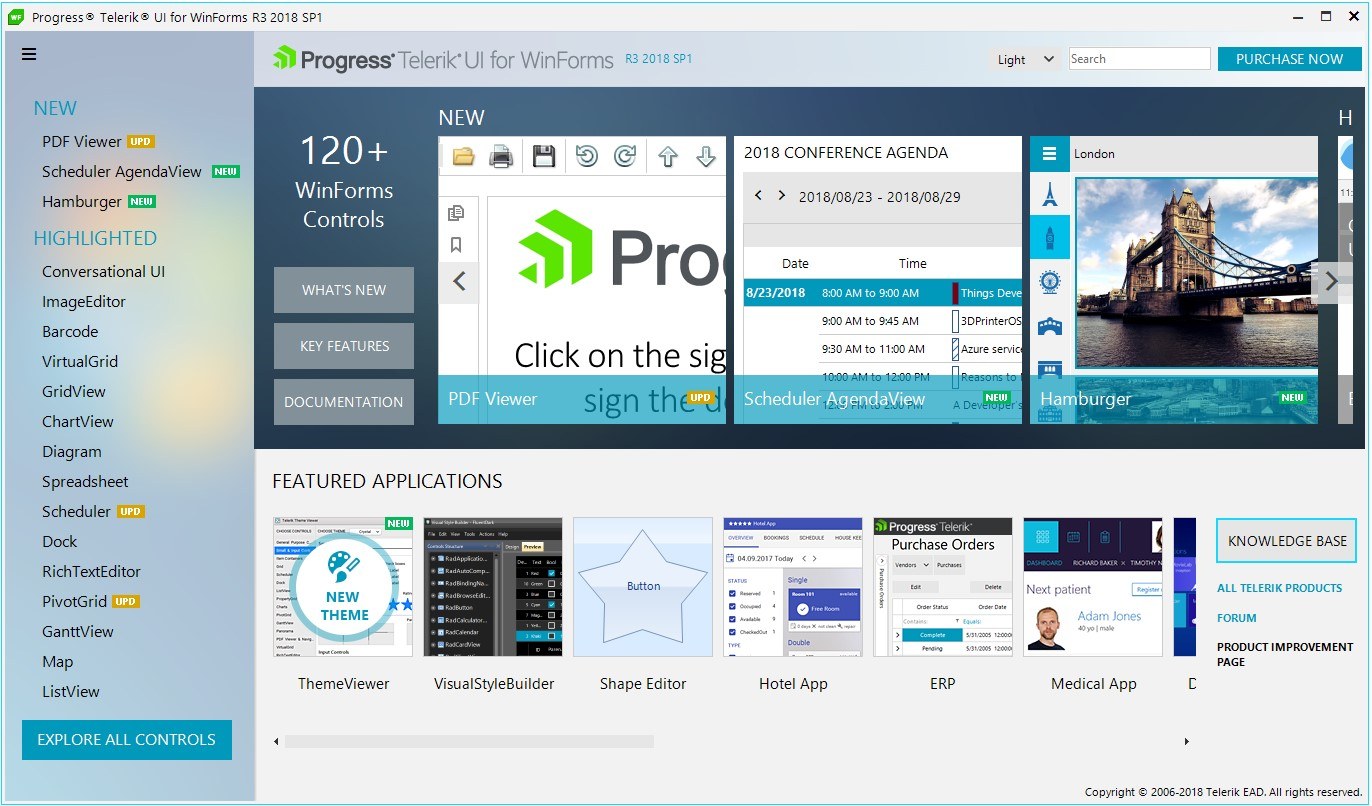
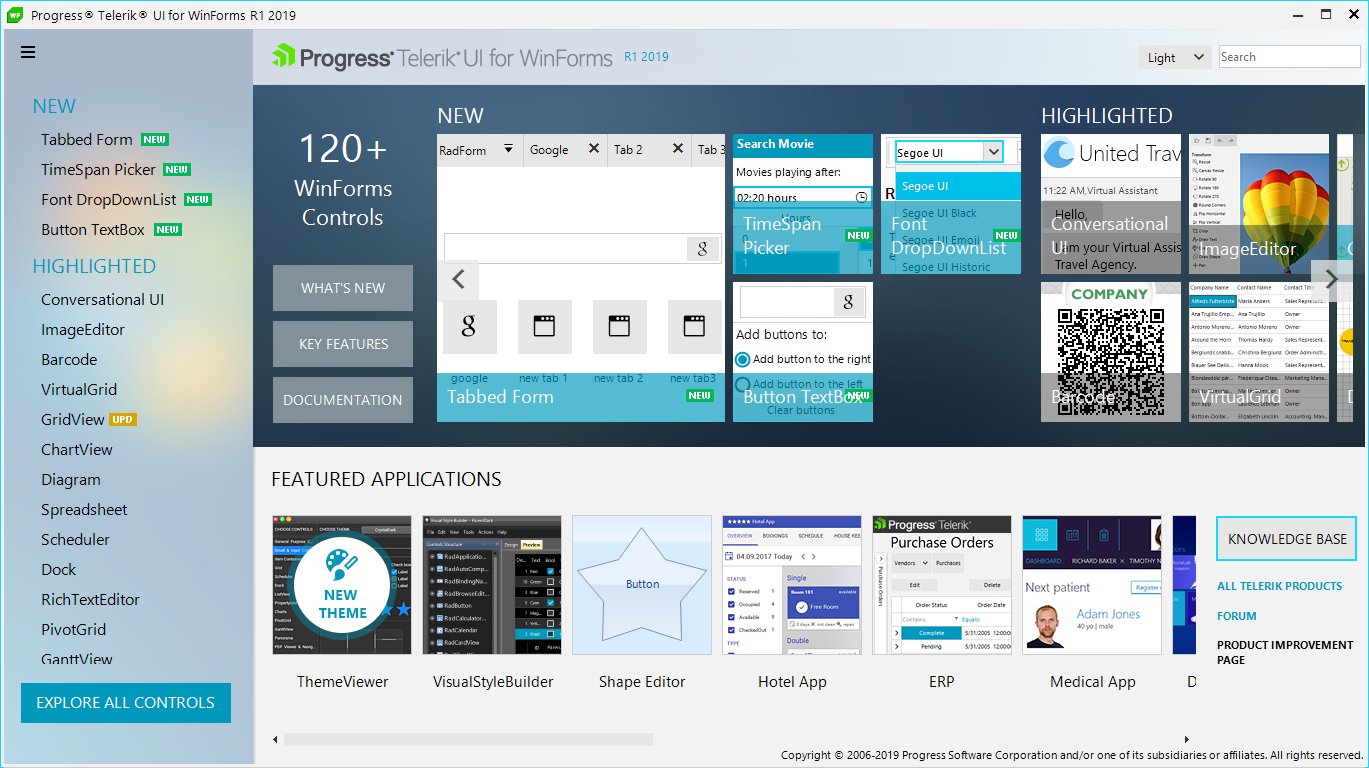
Updated the overview image and new controls

diff --git a/deployment-and-distribution/application-deployment.md b/deployment-and-distribution/application-deployment.md
@@ -99,6 +99,10 @@ Telerik.WinControls.UI.dll</td></tr><tr><td>
 
 Telerik.WinControls.UI.dll</td></tr><tr><td>
 
+<b>RadButtonTextBox </b></td><td>
+
+Telerik.WinControls.UI.dll</td></tr><tr><td>
+
 <b>RadCalendar</b></td><td>
 
 Telerik.WinControls.UI.dll</td></tr><tr><td>
@@ -148,6 +152,10 @@ Telerik.WinControls.RadDiagram.dll</td></tr><tr><td>
 Telerik.WinControls.RadDock.dll</td></tr><tr><td>
 
 <b>RadDropDownButton</b></td><td>
+
+Telerik.WinControls.UI.dll</td></tr><tr><td>
+
+<b>RadFontDropDownList </b></td><td>
 
 Telerik.WinControls.UI.dll</td></tr><tr><td>
 
@@ -204,6 +212,10 @@ Telerik.WinControls.UI.dll</td></tr><tr><td>
 Telerik.WinControls.UI.dll</td></tr><tr><td>
 
 <b>RadRibbonForm</b></td><td>
+
+Telerik.WinControls.UI.dll</td></tr><tr><td>
+
+<b>RadTabbedForm</b></td><td>
 
 Telerik.WinControls.UI.dll</td></tr><tr><td>
 
@@ -422,6 +434,10 @@ Telerik.WinControls.Scheduler.dll</td></tr><tr><td>
 <b>RadSchedulerNavigator</b></td><td>
 
 Telerik.WinControls.Scheduler.dll</td></tr><tr><td>
+
+<b>RadTimeSpanPicker</b></td><td>
+
+Telerik.WinControls.UI.dll</td></tr><tr><td>
 
 <b>RadCommandBar</b></td><td>
 

diff --git a/deployment-and-distribution/redistributing-telerik-ui-for-winforms.md b/deployment-and-distribution/redistributing-telerik-ui-for-winforms.md
@@ -368,6 +368,10 @@ Telerik.WinControls.UI.dll</td></tr><tr><td>
 
 Telerik.WinControls.UI.dll</td></tr><tr><td>
 
+<b>RadButtonTextBox </b></td><td>
+
+Telerik.WinControls.UI.dll</td></tr><tr><td>
+
 <b>RadCalendar</b></td><td>
 
 Telerik.WinControls.UI.dll</td></tr><tr><td>
@@ -420,6 +424,10 @@ Telerik.WinControls.RadDock.dll</td></tr><tr><td>
 
 Telerik.WinControls.UI.dll</td></tr><tr><td>
 
+<b>RadFontDropDownList </b></td><td>
+
+Telerik.WinControls.UI.dll</td></tr><tr><td>
+
 <b>RadForm</b></td><td>
 
 Telerik.WinControls.UI.dll</td></tr><tr><td>
@@ -469,6 +477,10 @@ Telerik.WinControls.UI.dll</td></tr><tr><td>
 Telerik.WinControls.UI.dll</td></tr><tr><td>
 
 <b>RadRibbonForm</b></td><td>
+
+Telerik.WinControls.UI.dll</td></tr><tr><td>
+
+<b>RadTabbedForm</b></td><td>
 
 Telerik.WinControls.UI.dll</td></tr><tr><td>
 
@@ -683,6 +695,10 @@ Telerik.WinControls.Scheduler.dll</td></tr><tr><td>
 <b>RadSchedulerNavigator</b></td><td>
 
 Telerik.WinControls.Scheduler.dll</td></tr><tr><td>
+
+<b>RadTimeSpanPicker</b></td><td>
+
+Telerik.WinControls.UI.dll</td></tr><tr><td>
 
 <b>RadCommandBar</b></td><td>
 
